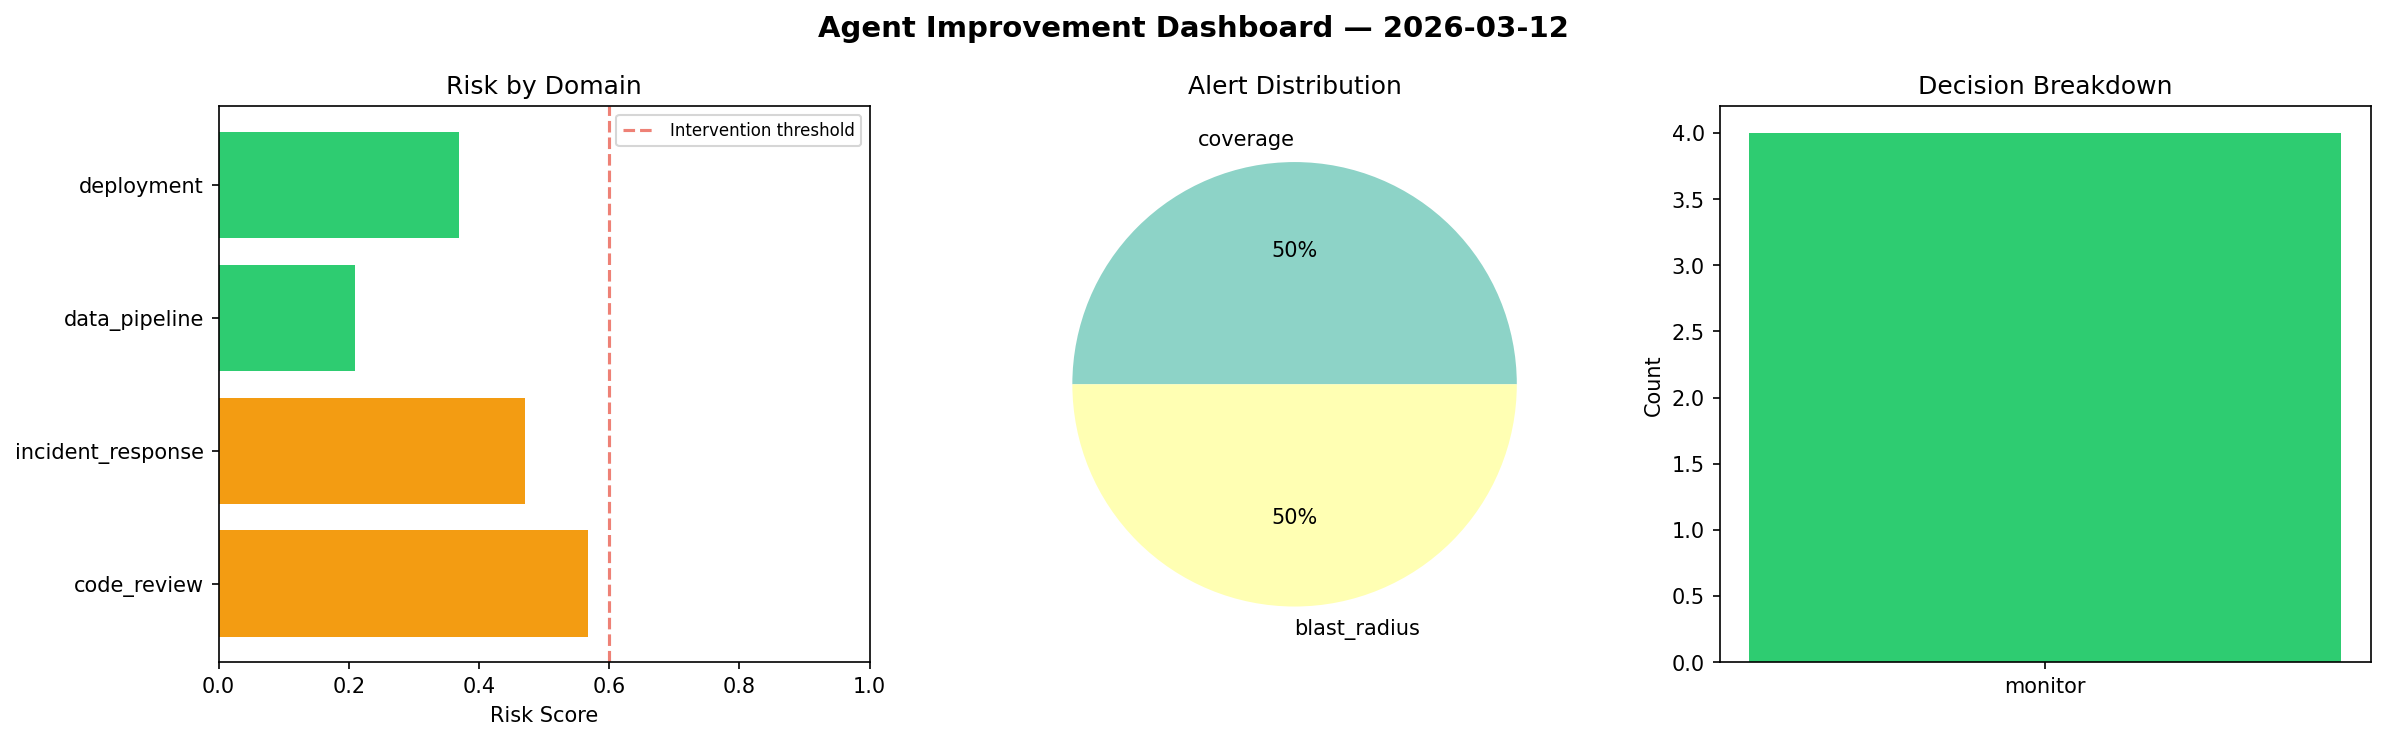
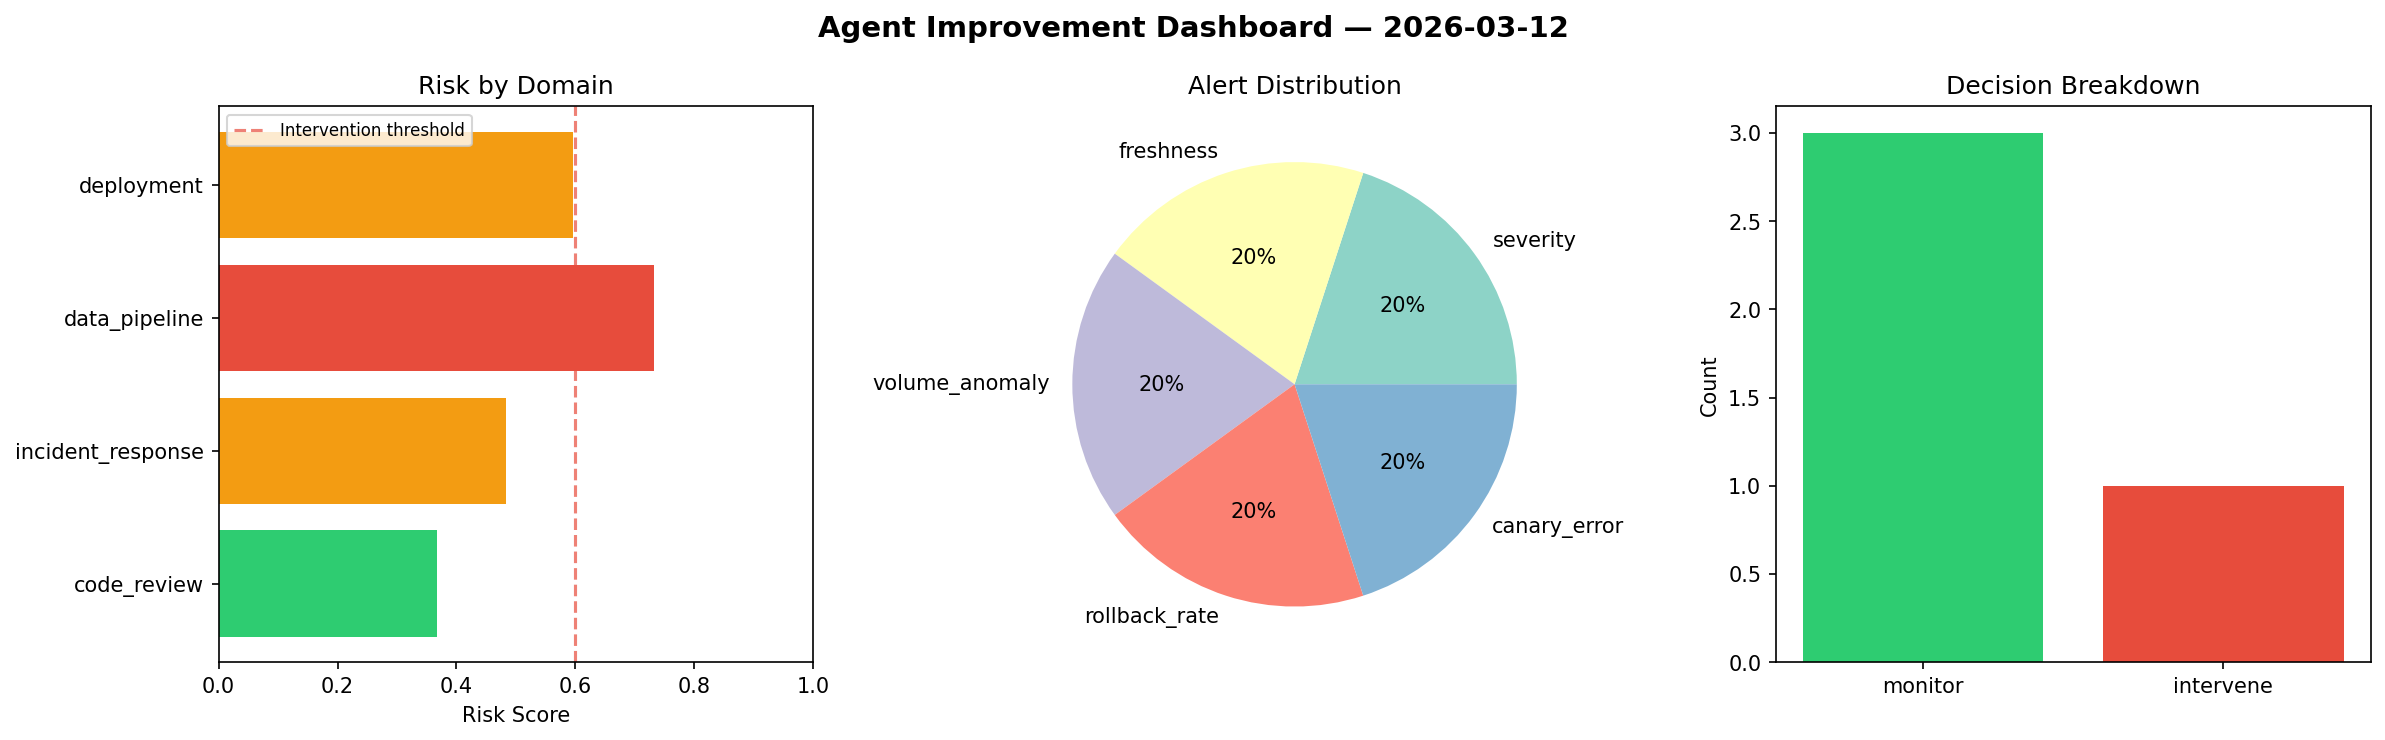
agent-improvement: daily cycle 2026-03-12T09:02

diff --git a/logs/2026-03-12.md b/logs/2026-03-12.md
@@ -1,6 +1,6 @@
 # Agent Improvement Report — 2026-03-12
 
-**Cycle ID:** `2327e1d9` | **Avg Risk:** 0.4043 | **Interventions:** 0/4
+**Cycle ID:** `44d37455` | **Avg Risk:** 0.5445 | **Interventions:** 1/4
 
 ![Dashboard](2026-03-12_dashboard.png)
 
@@ -10,18 +10,18 @@
 
 | Domain | Risk Score | Decision | Alerts |
 |--------|-----------|----------|--------|
-| code_review | 0.5677 | monitor | coverage |
-| incident_response | 0.47 | monitor | blast_radius |
-| data_pipeline | 0.2103 | monitor | none |
-| deployment | 0.3691 | monitor | none |
+| code_review | 0.3669 | monitor | none |
+| incident_response | 0.4837 | monitor | severity |
+| data_pipeline | 0.732 | intervene | freshness, volume_anomaly |
+| deployment | 0.5953 | monitor | rollback_rate, canary_error |
 
 ## Delta vs Yesterday
 
 | Domain | Today | Yesterday | Change |
 |--------|-------|-----------|--------|
-| code_review | 0.5677 | 0.3174 | 📈 78.9% |
-| incident_response | 0.47 | 0.5522 | 📉 -14.9% |
-| data_pipeline | 0.2103 | 0.6425 | 📉 -67.3% |
-| deployment | 0.3691 | 0.4127 | 📉 -10.6% |
+| code_review | 0.3669 | 0.3174 | 📈 15.6% |
+| incident_response | 0.4837 | 0.5522 | 📉 -12.4% |
+| data_pipeline | 0.732 | 0.6425 | 📈 13.9% |
+| deployment | 0.5953 | 0.4127 | 📈 44.2% |
 
-**Refinement:** `{'adjustment': 'maintain', 'trend': 'improving', 'window': 4}`
+**Refinement:** `{'adjustment': 'tighten_thresholds', 'trend': 'degrading', 'window': 4}`
